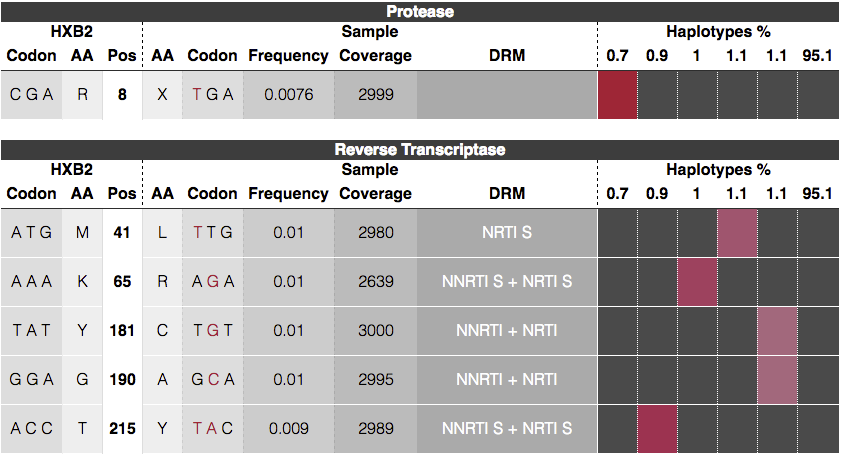
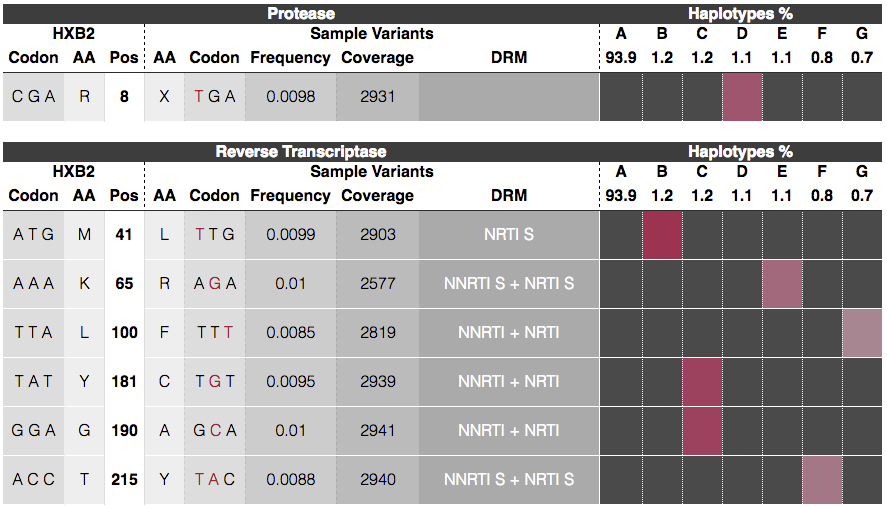
Sort haplotypes descending by frequency

diff --git a/src/JsonToHtml.cpp b/src/JsonToHtml.cpp
@@ -139,7 +139,7 @@ void JsonToHtml::HTML(std::ostream& out, const JSON::Json& j, const std::string 
         out << R"(The row-wise variant calls are "transposed" onto the per column haplotypes.<br/>
             For each variant, the haplotype shows a colored box, wild type is represented by plain dark gray.<br/>
             A color gradiant helps to distinguish between columns.<br/>
-            Haplotypes are sorted in ascending order by their relative abundance in percent.<br/>
+            Haplotypes are sorted in descending order by their relative abundance in percent.<br/>
             Haplotypes are assigned a single or combination of letters for documentation purposes.<br/>
             Haplotypes are phased across genes.<br/><br/>)";
     }

diff --git a/src/AminoAcidCaller.cpp b/src/AminoAcidCaller.cpp
@@ -270,6 +270,12 @@ void AminoAcidCaller::PhaseVariants()
         counts += hn->Size();
     if (verbose_) std::cerr << "#Counts: " << counts << std::endl;
 
+    // Sort generators descending
+    std::stable_sort(generators.begin(), generators.end(),
+                     [](const std::shared_ptr<Haplotype>& a, const std::shared_ptr<Haplotype>& b) {
+                         return a->Size() >= b->Size();
+                     });
+
     static constexpr int alphabetSize = 26;
     bool doubleName = generators.size() > alphabetSize;
     for (size_t genNumber = 0; genNumber < generators.size(); ++genNumber) {
